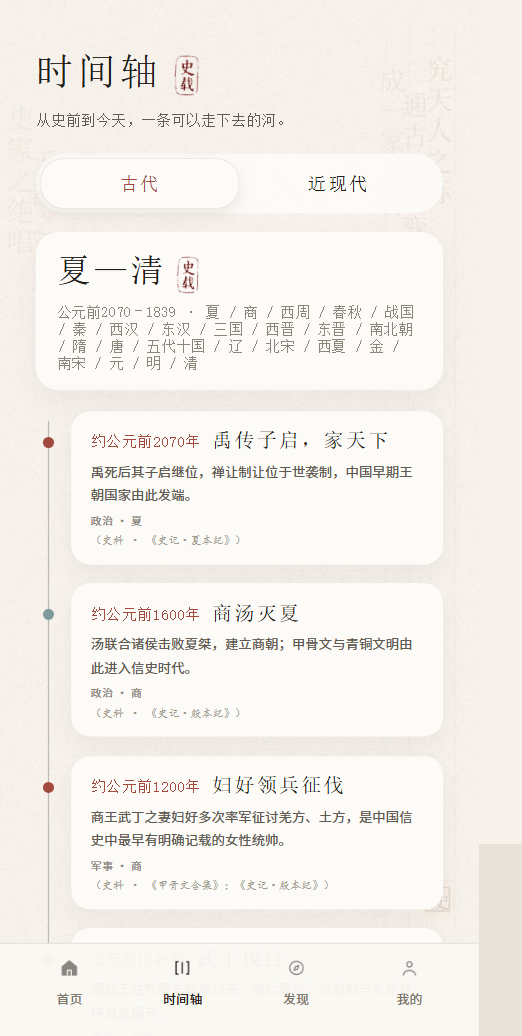
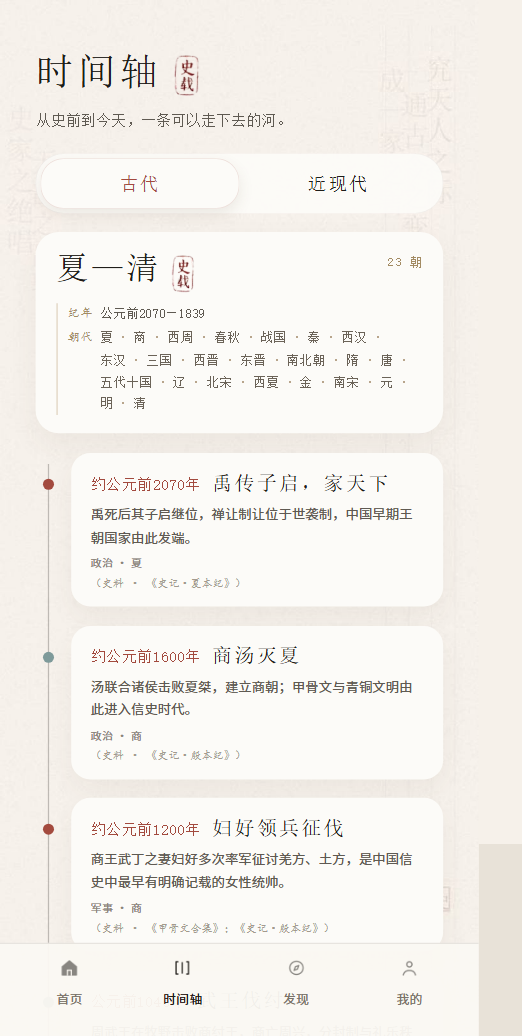
优化时间轴朝代总览卡片排版
拆成纪年/朝代键值行，标题右侧加 23 朝计数；朝代改为独立词元渲染，避免行首孤立分隔点；收紧字号与行高。selftest 1600/0，validate 13 页通过，28 张预览图重截。

diff --git a/ui/preview/_bundle.js b/ui/preview/_bundle.js
@@ -4416,7 +4416,9 @@ Page('project://pages/timeline/timeline.js', {
   data: {
     mode: 'ancient',
     eraName: '',
-    eraMeta: '',
+    eraRange: '',
+    eraList: [],
+    eraCount: 0,
     events: [],
     fontClass: 'm'
   },
@@ -4468,18 +4470,19 @@ Page('project://pages/timeline/timeline.js', {
     events.forEach((event) => {
       if (eras.indexOf(event.era) < 0) eras.push(event.era);
     });
-    const years = events.map((event) => event.year);
     const eraName = eras.length > 1 ? `${eras[0]}—${eras[eras.length - 1]}` : eras[0] || '';
     const first = events[0];
     const last = events[events.length - 1];
     const fmt = (item) => (item.year < 0 ? `公元前${-item.year}` : item.year);
-    const eraMeta = `${first ? fmt(first) : ''}–${last ? fmt(last) : ''} · ${eras.join(' / ')}`;
+    const eraRange = first && last ? `${fmt(first)}—${fmt(last)}` : '';
 
     this.setData({
       mode,
       events,
       eraName,
-      eraMeta
+      eraRange,
+      eraList: eras,
+      eraCount: eras.length
     });
   },
 
@@ -4496,8 +4499,8 @@ Page('project://pages/timeline/timeline.js', {
 });
 
 });
-__register('/pages/timeline/timeline.wxml', function (require, module, exports) { module.exports = "<view class=\"page fs-{{fontClass}}\">\r\n  <image class=\"paper-bg\" src=\"/assets/paper-bg.jpg\" mode=\"aspectFill\"></image>\r\n  <view class=\"screen\">\r\n\r\n    <view class=\"header\">\r\n      <view class=\"topbar\">\r\n        <text class=\"brand\">时间轴</text>\r\n        <image class=\"brand-seal\" src=\"/assets/seal.png\" mode=\"aspectFit\"></image>\r\n      </view>\r\n      <view class=\"intro\">从史前到今天，一条可以走下去的河。</view>\r\n    </view>\r\n\r\n    <view class=\"seg\">\r\n      <text class=\"seg-item {{mode === 'ancient' ? 'active' : ''}}\" data-mode=\"ancient\" bindtap=\"switchMode\">古代</text>\r\n      <text class=\"seg-item {{mode === 'modern' ? 'active' : ''}}\" data-mode=\"modern\" bindtap=\"switchMode\">近现代</text>\r\n    </view>\r\n\r\n    <view class=\"era-band\">\r\n      <view class=\"era-title-row\">\r\n        <text class=\"era-name\">{{eraName}}</text>\r\n        <image class=\"era-mini-seal\" src=\"/assets/seal.png\" mode=\"aspectFit\"></image>\r\n      </view>\r\n      <text class=\"era-meta\">{{eraMeta}}</text>\r\n    </view>\r\n\r\n    <view class=\"event-list\">\r\n      <view class=\"rail\"></view>\r\n      <view\r\n        wx:for=\"{{events}}\"\r\n        wx:key=\"id\"\r\n        class=\"event-item\"\r\n        data-id=\"{{item.id}}\"\r\n        bindtap=\"onEvent\"\r\n      >\r\n        <text class=\"dot {{item.dotClass}}\"></text>\r\n        <view class=\"event-card\">\r\n          <view class=\"event-head\">\r\n            <text class=\"event-year {{item.yearAncientText ? 'year-red' : ''}}\">{{item.yearText}}</text>\r\n            <text class=\"event-title\">{{item.title}}</text>\r\n          </view>\r\n          <text class=\"event-desc\">{{item.desc}}</text>\r\n          <text class=\"event-tags\">{{item.tags}}</text>\r\n          <text class=\"event-source\">（史料 · {{item.source}}）</text>\r\n        </view>\r\n      </view>\r\n    </view>\r\n  </view>\r\n</view>\r\n"; });
-__register('/pages/timeline/timeline.wxss', function (require, module, exports) { module.exports = ".page {\n  position: relative;\n  min-height: 100vh;\n  overflow: hidden;\n  background: #F6F1EA;\n}\n\n.paper-bg {\n  position: fixed;\n  left: 0;\n  top: 0;\n  z-index: 0;\n  width: 100%;\n  height: 100%;\n  opacity: 0.96;\n}\n\n/* 参考图四周的内框细线 */\n.screen {\n  position: relative;\n  z-index: 2;\n  padding: 0 56rpx 160rpx;\n}\n\n/* 顶部：品牌行 */\n.header {\n  position: relative;\n  margin-top: 76rpx;\n}\n\n.topbar {\n  position: relative;\n  z-index: 2;\n  display: flex;\n  align-items: flex-start;\n  gap: 20rpx;\n}\n\n.brand {\n  font-family: \"Songti SC\", \"STSong\", \"SimSun\", serif;\n  font-size: calc(60rpx * var(--fs, 1));\n  font-weight: 400;\n  letter-spacing: 0.10em;\n  line-height: 1.15;\n  color: #1F1D19;\n}\n\n/* 标题旁的小朱砂印：首页同款\"史载\"印章图（assets/seal.png，自 palace 裁切） */\n.brand-seal {\n  margin-top: 10rpx;\n  width: 38rpx;\n  height: 64rpx;\n  transform: rotate(2deg);\n}\n\n.intro {\n  position: relative;\n  z-index: 2;\n  margin-top: 22rpx;\n  font-family: \"Songti SC\", \"STSong\", \"SimSun\", serif;\n  font-size: calc(24rpx * var(--fs, 1));\n  line-height: 1.6;\n  letter-spacing: 0.02em;\n  color: #5F5A52;\n}\n\n/* 古代 / 近现代 分段 */\n.seg {\n  position: relative;\n  z-index: 2;\n  display: flex;\n  margin-top: 30rpx;\n  padding: 8rpx;\n  border-radius: 44rpx;\n  background: rgba(252, 251, 248, 0.94);\n  box-shadow: inset 0 0 0 1rpx rgba(70, 58, 45, 0.06);\n}\n\n.seg-item {\n  flex: 1;\n  height: 78rpx;\n  display: flex;\n  align-items: center;\n  justify-content: center;\n  border-radius: 36rpx;\n  font-family: \"Songti SC\", \"STSong\", \"SimSun\", serif;\n  font-size: calc(28rpx * var(--fs, 1));\n  letter-spacing: 0.10em;\n  color: #1F1D19;\n}\n\n.seg-item.active {\n  background: #FCFBF8;\n  color: #A34A3E;\n  box-shadow: 0 10rpx 24rpx rgba(90, 70, 50, 0.10), inset 0 0 0 1rpx rgba(163, 74, 62, 0.16);\n}\n\n/* 朝代头卡 */\n.era-band {\n  position: relative;\n  z-index: 2;\n  margin-top: 30rpx;\n  padding: 30rpx 34rpx;\n  border-radius: 36rpx;\n  background: #FCFBF8;\n  box-shadow: 0 20rpx 46rpx rgba(90, 70, 50, 0.06);\n}\n\n.era-title-row {\n  display: flex;\n  align-items: flex-start;\n  gap: 16rpx;\n}\n\n.era-name {\n  font-family: \"Songti SC\", \"STSong\", \"SimSun\", serif;\n  font-size: calc(52rpx * var(--fs, 1));\n  letter-spacing: 0.10em;\n  line-height: 1.15;\n  color: #1F1D19;\n}\n\n/* 北宋旁的小立印：同款印章图 */\n.era-mini-seal {\n  margin-top: 8rpx;\n  width: 34rpx;\n  height: 58rpx;\n  transform: rotate(2deg);\n}\n\n.era-meta {\n  display: block;\n  margin-top: 14rpx;\n  font-family: \"Songti SC\", \"STSong\", \"SimSun\", serif;\n  font-size: calc(22rpx * var(--fs, 1));\n  letter-spacing: 0.04em;\n  color: #8C857A;\n}\n\n/* 沿竖线挂卡的事件列表 */\n.event-list {\n  position: relative;\n  z-index: 2;\n  margin-top: 32rpx;\n  padding-left: 56rpx;\n}\n\n.rail {\n  position: absolute;\n  left: 19rpx;\n  top: 16rpx;\n  bottom: 26rpx;\n  width: 2rpx;\n  background: rgba(31, 27, 22, 0.26);\n}\n\n.event-item {\n  position: relative;\n  margin-bottom: 30rpx;\n}\n\n.dot {\n  position: absolute;\n  left: -45rpx;\n  top: 40rpx;\n  width: 18rpx;\n  height: 18rpx;\n  border-radius: 50%;\n  z-index: 2;\n}\n\n.dot-red {\n  background: #A34A3E;\n}\n\n.dot-teal {\n  background: #7E9A9A;\n}\n\n.event-card {\n  padding: 28rpx 30rpx;\n  border-radius: 30rpx;\n  background: #FCFBF8;\n  box-shadow: 0 18rpx 40rpx rgba(90, 70, 50, 0.06);\n}\n\n.event-head {\n  display: flex;\n  align-items: baseline;\n  gap: 18rpx;\n  flex-wrap: wrap;\n}\n\n.event-year {\n  font-family: \"Songti SC\", \"STSong\", \"SimSun\", serif;\n  font-size: calc(32rpx * var(--fs, 1));\n  letter-spacing: 0.05em;\n  color: #1F1D19;\n}\n\n.event-year.year-red {\n  font-size: calc(24rpx * var(--fs, 1));\n  color: #A34A3E;\n}\n\n.event-title {\n  font-family: \"Songti SC\", \"STSong\", \"SimSun\", serif;\n  font-size: calc(32rpx * var(--fs, 1));\n  letter-spacing: 0.07em;\n  color: #1F1D19;\n}\n\n.event-desc {\n  display: block;\n  margin-top: 14rpx;\n  font-size: calc(21rpx * var(--fs, 1));\n  line-height: 1.7;\n  color: #5F5A52;\n}\n\n.event-tags {\n  display: block;\n  margin-top: 12rpx;\n  font-size: calc(17rpx * var(--fs, 1));\n  letter-spacing: 0.05em;\n  color: #8C857A;\n}\n\n.event-source {\n  display: block;\n  margin-top: 8rpx;\n  font-family: \"KaiTi\", \"STKaiti\", serif;\n  font-size: calc(17rpx * var(--fs, 1));\n  letter-spacing: 0.02em;\n  color: #A39A8E;\n}\n\n"; });
+__register('/pages/timeline/timeline.wxml', function (require, module, exports) { module.exports = "<view class=\"page fs-{{fontClass}}\">\r\n  <image class=\"paper-bg\" src=\"/assets/paper-bg.jpg\" mode=\"aspectFill\"></image>\r\n  <view class=\"screen\">\r\n\r\n    <view class=\"header\">\r\n      <view class=\"topbar\">\r\n        <text class=\"brand\">时间轴</text>\r\n        <image class=\"brand-seal\" src=\"/assets/seal.png\" mode=\"aspectFit\"></image>\r\n      </view>\r\n      <view class=\"intro\">从史前到今天，一条可以走下去的河。</view>\r\n    </view>\r\n\r\n    <view class=\"seg\">\r\n      <text class=\"seg-item {{mode === 'ancient' ? 'active' : ''}}\" data-mode=\"ancient\" bindtap=\"switchMode\">古代</text>\r\n      <text class=\"seg-item {{mode === 'modern' ? 'active' : ''}}\" data-mode=\"modern\" bindtap=\"switchMode\">近现代</text>\r\n    </view>\r\n\r\n    <view class=\"era-band\">\r\n      <view class=\"era-head\">\r\n        <view class=\"era-title-row\">\r\n          <text class=\"era-name\">{{eraName}}</text>\r\n          <image class=\"era-mini-seal\" src=\"/assets/seal.png\" mode=\"aspectFit\"></image>\r\n        </view>\r\n        <text class=\"era-count\">{{eraCount}} 朝</text>\r\n      </view>\r\n      <view class=\"era-meta\">\r\n        <view class=\"era-meta-row\">\r\n          <text class=\"era-meta-label\">纪年</text>\r\n          <text class=\"era-meta-value era-range\">{{eraRange}}</text>\r\n        </view>\r\n        <view class=\"era-meta-row\">\r\n          <text class=\"era-meta-label\">朝代</text>\r\n          <view class=\"era-meta-value era-list\">\r\n            <view wx:for=\"{{eraList}}\" wx:key=\"*this\" class=\"era-word\">\r\n              <text>{{item}}</text>\r\n              <text wx:if=\"{{index < eraList.length - 1}}\" class=\"era-sep\">·</text>\r\n            </view>\r\n          </view>\r\n        </view>\r\n      </view>\r\n    </view>\r\n\r\n    <view class=\"event-list\">\r\n      <view class=\"rail\"></view>\r\n      <view\r\n        wx:for=\"{{events}}\"\r\n        wx:key=\"id\"\r\n        class=\"event-item\"\r\n        data-id=\"{{item.id}}\"\r\n        bindtap=\"onEvent\"\r\n      >\r\n        <text class=\"dot {{item.dotClass}}\"></text>\r\n        <view class=\"event-card\">\r\n          <view class=\"event-head\">\r\n            <text class=\"event-year {{item.yearAncientText ? 'year-red' : ''}}\">{{item.yearText}}</text>\r\n            <text class=\"event-title\">{{item.title}}</text>\r\n          </view>\r\n          <text class=\"event-desc\">{{item.desc}}</text>\r\n          <text class=\"event-tags\">{{item.tags}}</text>\r\n          <text class=\"event-source\">（史料 · {{item.source}}）</text>\r\n        </view>\r\n      </view>\r\n    </view>\r\n  </view>\r\n</view>\r\n"; });
+__register('/pages/timeline/timeline.wxss', function (require, module, exports) { module.exports = ".page {\n  position: relative;\n  min-height: 100vh;\n  overflow: hidden;\n  background: #F6F1EA;\n}\n\n.paper-bg {\n  position: fixed;\n  left: 0;\n  top: 0;\n  z-index: 0;\n  width: 100%;\n  height: 100%;\n  opacity: 0.96;\n}\n\n/* 参考图四周的内框细线 */\n.screen {\n  position: relative;\n  z-index: 2;\n  padding: 0 56rpx 160rpx;\n}\n\n/* 顶部：品牌行 */\n.header {\n  position: relative;\n  margin-top: 76rpx;\n}\n\n.topbar {\n  position: relative;\n  z-index: 2;\n  display: flex;\n  align-items: flex-start;\n  gap: 20rpx;\n}\n\n.brand {\n  font-family: \"Songti SC\", \"STSong\", \"SimSun\", serif;\n  font-size: calc(60rpx * var(--fs, 1));\n  font-weight: 400;\n  letter-spacing: 0.10em;\n  line-height: 1.15;\n  color: #1F1D19;\n}\n\n/* 标题旁的小朱砂印：首页同款\"史载\"印章图（assets/seal.png，自 palace 裁切） */\n.brand-seal {\n  margin-top: 10rpx;\n  width: 38rpx;\n  height: 64rpx;\n  transform: rotate(2deg);\n}\n\n.intro {\n  position: relative;\n  z-index: 2;\n  margin-top: 22rpx;\n  font-family: \"Songti SC\", \"STSong\", \"SimSun\", serif;\n  font-size: calc(24rpx * var(--fs, 1));\n  line-height: 1.6;\n  letter-spacing: 0.02em;\n  color: #5F5A52;\n}\n\n/* 古代 / 近现代 分段 */\n.seg {\n  position: relative;\n  z-index: 2;\n  display: flex;\n  margin-top: 30rpx;\n  padding: 8rpx;\n  border-radius: 44rpx;\n  background: rgba(252, 251, 248, 0.94);\n  box-shadow: inset 0 0 0 1rpx rgba(70, 58, 45, 0.06);\n}\n\n.seg-item {\n  flex: 1;\n  height: 78rpx;\n  display: flex;\n  align-items: center;\n  justify-content: center;\n  border-radius: 36rpx;\n  font-family: \"Songti SC\", \"STSong\", \"SimSun\", serif;\n  font-size: calc(28rpx * var(--fs, 1));\n  letter-spacing: 0.10em;\n  color: #1F1D19;\n}\n\n.seg-item.active {\n  background: #FCFBF8;\n  color: #A34A3E;\n  box-shadow: 0 10rpx 24rpx rgba(90, 70, 50, 0.10), inset 0 0 0 1rpx rgba(163, 74, 62, 0.16);\n}\n\n/* 朝代头卡 */\n.era-band {\n  position: relative;\n  z-index: 2;\n  margin-top: 30rpx;\n  padding: 28rpx 32rpx;\n  border-radius: 36rpx;\n  background: #FCFBF8;\n  box-shadow: 0 20rpx 46rpx rgba(90, 70, 50, 0.06);\n}\n\n.era-head {\n  display: flex;\n  align-items: flex-start;\n  justify-content: space-between;\n  gap: 20rpx;\n}\n\n.era-title-row {\n  display: flex;\n  align-items: flex-start;\n  gap: 16rpx;\n}\n\n.era-name {\n  font-family: \"Songti SC\", \"STSong\", \"SimSun\", serif;\n  font-size: calc(50rpx * var(--fs, 1));\n  letter-spacing: 0.10em;\n  line-height: 1.15;\n  color: #1F1D19;\n}\n\n.era-count {\n  flex: 0 0 auto;\n  margin-top: 10rpx;\n  font-family: \"Songti SC\", \"STSong\", \"SimSun\", serif;\n  font-size: calc(19rpx * var(--fs, 1));\n  letter-spacing: 0.08em;\n  color: #A38B63;\n}\n\n/* 北宋旁的小立印：同款印章图 */\n.era-mini-seal {\n  margin-top: 8rpx;\n  width: 34rpx;\n  height: 58rpx;\n  transform: rotate(2deg);\n}\n\n.era-meta {\n  margin-top: 16rpx;\n  padding-left: 16rpx;\n  border-left: 2rpx solid rgba(176, 142, 96, 0.38);\n}\n\n.era-meta-row {\n  display: flex;\n  align-items: flex-start;\n}\n\n.era-meta-row + .era-meta-row {\n  margin-top: 6rpx;\n}\n\n.era-meta-label {\n  flex: 0 0 50rpx;\n  font-family: \"KaiTi\", \"STKaiti\", \"Songti SC\", serif;\n  font-size: calc(19rpx * var(--fs, 1));\n  line-height: 1.7;\n  letter-spacing: 0.06em;\n  color: #A38B63;\n}\n\n.era-meta-value {\n  flex: 1;\n  min-width: 0;\n  font-family: \"Songti SC\", \"STSong\", \"SimSun\", serif;\n  font-size: calc(20rpx * var(--fs, 1));\n  line-height: 1.7;\n  letter-spacing: 0.02em;\n  color: #6B6358;\n}\n\n.era-range {\n  color: #5F5A52;\n}\n\n.era-list {\n  display: flex;\n  flex-wrap: wrap;\n  align-items: baseline;\n}\n\n.era-word {\n  display: inline-flex;\n  align-items: baseline;\n  white-space: nowrap;\n}\n\n.era-sep {\n  margin: 0 6rpx;\n  color: #B8A58C;\n}\n\n/* 沿竖线挂卡的事件列表 */\n.event-list {\n  position: relative;\n  z-index: 2;\n  margin-top: 32rpx;\n  padding-left: 56rpx;\n}\n\n.rail {\n  position: absolute;\n  left: 19rpx;\n  top: 16rpx;\n  bottom: 26rpx;\n  width: 2rpx;\n  background: rgba(31, 27, 22, 0.26);\n}\n\n.event-item {\n  position: relative;\n  margin-bottom: 30rpx;\n}\n\n.dot {\n  position: absolute;\n  left: -45rpx;\n  top: 40rpx;\n  width: 18rpx;\n  height: 18rpx;\n  border-radius: 50%;\n  z-index: 2;\n}\n\n.dot-red {\n  background: #A34A3E;\n}\n\n.dot-teal {\n  background: #7E9A9A;\n}\n\n.event-card {\n  padding: 28rpx 30rpx;\n  border-radius: 30rpx;\n  background: #FCFBF8;\n  box-shadow: 0 18rpx 40rpx rgba(90, 70, 50, 0.06);\n}\n\n.event-head {\n  display: flex;\n  align-items: baseline;\n  gap: 18rpx;\n  flex-wrap: wrap;\n}\n\n.event-year {\n  font-family: \"Songti SC\", \"STSong\", \"SimSun\", serif;\n  font-size: calc(32rpx * var(--fs, 1));\n  letter-spacing: 0.05em;\n  color: #1F1D19;\n}\n\n.event-year.year-red {\n  font-size: calc(24rpx * var(--fs, 1));\n  color: #A34A3E;\n}\n\n.event-title {\n  font-family: \"Songti SC\", \"STSong\", \"SimSun\", serif;\n  font-size: calc(32rpx * var(--fs, 1));\n  letter-spacing: 0.07em;\n  color: #1F1D19;\n}\n\n.event-desc {\n  display: block;\n  margin-top: 14rpx;\n  font-size: calc(21rpx * var(--fs, 1));\n  line-height: 1.7;\n  color: #5F5A52;\n}\n\n.event-tags {\n  display: block;\n  margin-top: 12rpx;\n  font-size: calc(17rpx * var(--fs, 1));\n  letter-spacing: 0.05em;\n  color: #8C857A;\n}\n\n.event-source {\n  display: block;\n  margin-top: 8rpx;\n  font-family: \"KaiTi\", \"STKaiti\", serif;\n  font-size: calc(17rpx * var(--fs, 1));\n  letter-spacing: 0.02em;\n  color: #A39A8E;\n}\n\n"; });
 __register('/pages/discover/discover.js', function (require, module, exports) {
 const hd = require('../../utils/historyData.js');
 const store = require('../../utils/store.js');

diff --git a/tools/selftest.js b/tools/selftest.js
@@ -431,16 +431,17 @@ console.log('== 时间轴 ==');
     '古代时间轴首尾为夏建立/虎门销烟');
   eq(p.data.events[0].dotClass, 'dot-red', '轴上首点红');
   eq(p.data.eraName, '夏—清', '时代带名来自数据推导');
-  ok(p.data.eraMeta.indexOf('公元前2070–1839') >= 0 && p.data.eraMeta.indexOf('夏 / 商 / 西周 / 春秋 / 战国 / 秦') >= 0 &&
-    p.data.eraMeta.indexOf('辽 / 北宋 / 西夏 / 金 / 南宋 / 元 / 明 / 清') >= 0,
-    '时代带meta含纪年区间与时代列表（含先秦/辽金西夏/元/明清）');
+  ok(p.data.eraCount === 23 && p.data.eraRange === '公元前2070—1839' &&
+    p.data.eraList.slice(0, 6).join(' · ') === '夏 · 商 · 西周 · 春秋 · 战国 · 秦' &&
+    p.data.eraList.slice(-8).join(' · ') === '辽 · 北宋 · 西夏 · 金 · 南宋 · 元 · 明 · 清',
+    '时代带含纪年区间与完整朝代脉络（含先秦/辽金西夏/元/明清）');
 
   p.onLoad({ mode: 'modern' });
   eq(p.data.mode, 'modern', 'mode 参数近现代');
   eq(p.data.events.length, 18, '近现代 18 条事件');
   eq(p.data.eraName, '晚清—新中国', '近现代时代带名推导');
-  ok(p.data.eraMeta.indexOf('1840–1978') >= 0 && p.data.eraMeta.indexOf('新中国') >= 0,
-    '近现代meta覆盖 1978 与新中国');
+  ok(p.data.eraCount === 3 && p.data.eraRange === '1840—1978' && p.data.eraList.indexOf('新中国') >= 0,
+    '近现代时代带覆盖 1978 与新中国');
 
   const before = JSON.stringify(p.data);
   tap(p, 'switchMode', { mode: 'modern' });

diff --git a/miniprogram/pages/timeline/timeline.js b/miniprogram/pages/timeline/timeline.js
@@ -6,7 +6,9 @@ Page({
   data: {
     mode: 'ancient',
     eraName: '',
-    eraMeta: '',
+    eraRange: '',
+    eraList: [],
+    eraCount: 0,
     events: [],
     fontClass: 'm'
   },
@@ -58,18 +60,19 @@ Page({
     events.forEach((event) => {
       if (eras.indexOf(event.era) < 0) eras.push(event.era);
     });
-    const years = events.map((event) => event.year);
     const eraName = eras.length > 1 ? `${eras[0]}—${eras[eras.length - 1]}` : eras[0] || '';
     const first = events[0];
     const last = events[events.length - 1];
     const fmt = (item) => (item.year < 0 ? `公元前${-item.year}` : item.year);
-    const eraMeta = `${first ? fmt(first) : ''}–${last ? fmt(last) : ''} · ${eras.join(' / ')}`;
+    const eraRange = first && last ? `${fmt(first)}—${fmt(last)}` : '';
 
     this.setData({
       mode,
       events,
       eraName,
-      eraMeta
+      eraRange,
+      eraList: eras,
+      eraCount: eras.length
     });
   },
 

diff --git a/docs/DEVELOPMENT_LOG.md b/docs/DEVELOPMENT_LOG.md
@@ -1629,3 +1629,25 @@ miniprogram/data/history.js
 - `node tools/build_preview.js` 成功；`node tools/preview_shots.js` **28 张截图全部成功**。
 - 已核对 `06-period-tang.png`、`12-person-sushi.png`、`22-archive-list.png`、`23-archive-detail.png` 的返回按钮；宽度已收窄，箭头/文字比例正常。
 - 仍需真机确认：楷体回退、微信原生胶囊间距、320px 窄屏下的顶栏三者避让。
+
+---
+
+## 2026-10-23 · 第三十六轮：时间轴朝代总览卡片排版
+
+**用户反馈**：时间轴顶部红圈里的「夏—清」数据挤在一段灰色文字里，纪年、朝代混排，阅读和版式都需要优化。
+
+**调整**
+
+- 把头卡拆成三层：标题印章行 / 纪年行 / 朝代行，标题右侧补「23 朝」计数。
+- 纪年与朝代各用固定宽度的小标签（楷体赭金），值用宋体墨色，左侧加一条赭金细线，形成清晰的键值层级。
+- 朝代不再用一整串文本，改为 `eraList` 动态渲染：每个朝代是独立词元，词元内部带分隔点，换行时不会出现行首孤立「·」。
+- 收紧头卡内边距、字号与行高；近现代只有 3 个时代时自动收成单行，不为古代列表留空。
+- `timeline.js` 的 `eraMeta` 拆成 `eraRange` / `eraList` / `eraCount`，并移除未使用的 `years` 变量。
+
+**校验**
+
+- `node tools/selftest.js`：**PASS 1600 / FAIL 0**；时间轴断言改为校验 23 个朝代、纪年区间与首尾朝代序列。
+- `python tools/validate_miniprogram.py`：`OK: 13 pages, JSON/assets/WXML checks passed.`
+- `node tools/build_preview.js` 成功；`node tools/preview_shots.js` **28 张截图全部成功**。
+- 已核对 `03-timeline-ancient.png`、`04-timeline-modern.png`：古代 23 朝完整展示且无行首分隔点，近现代 3 朝单行。
+- 仍需真机确认：320px 窄屏下「晚清—新中国」标题与小印/计数的避让，以及楷体回退后的行宽。
